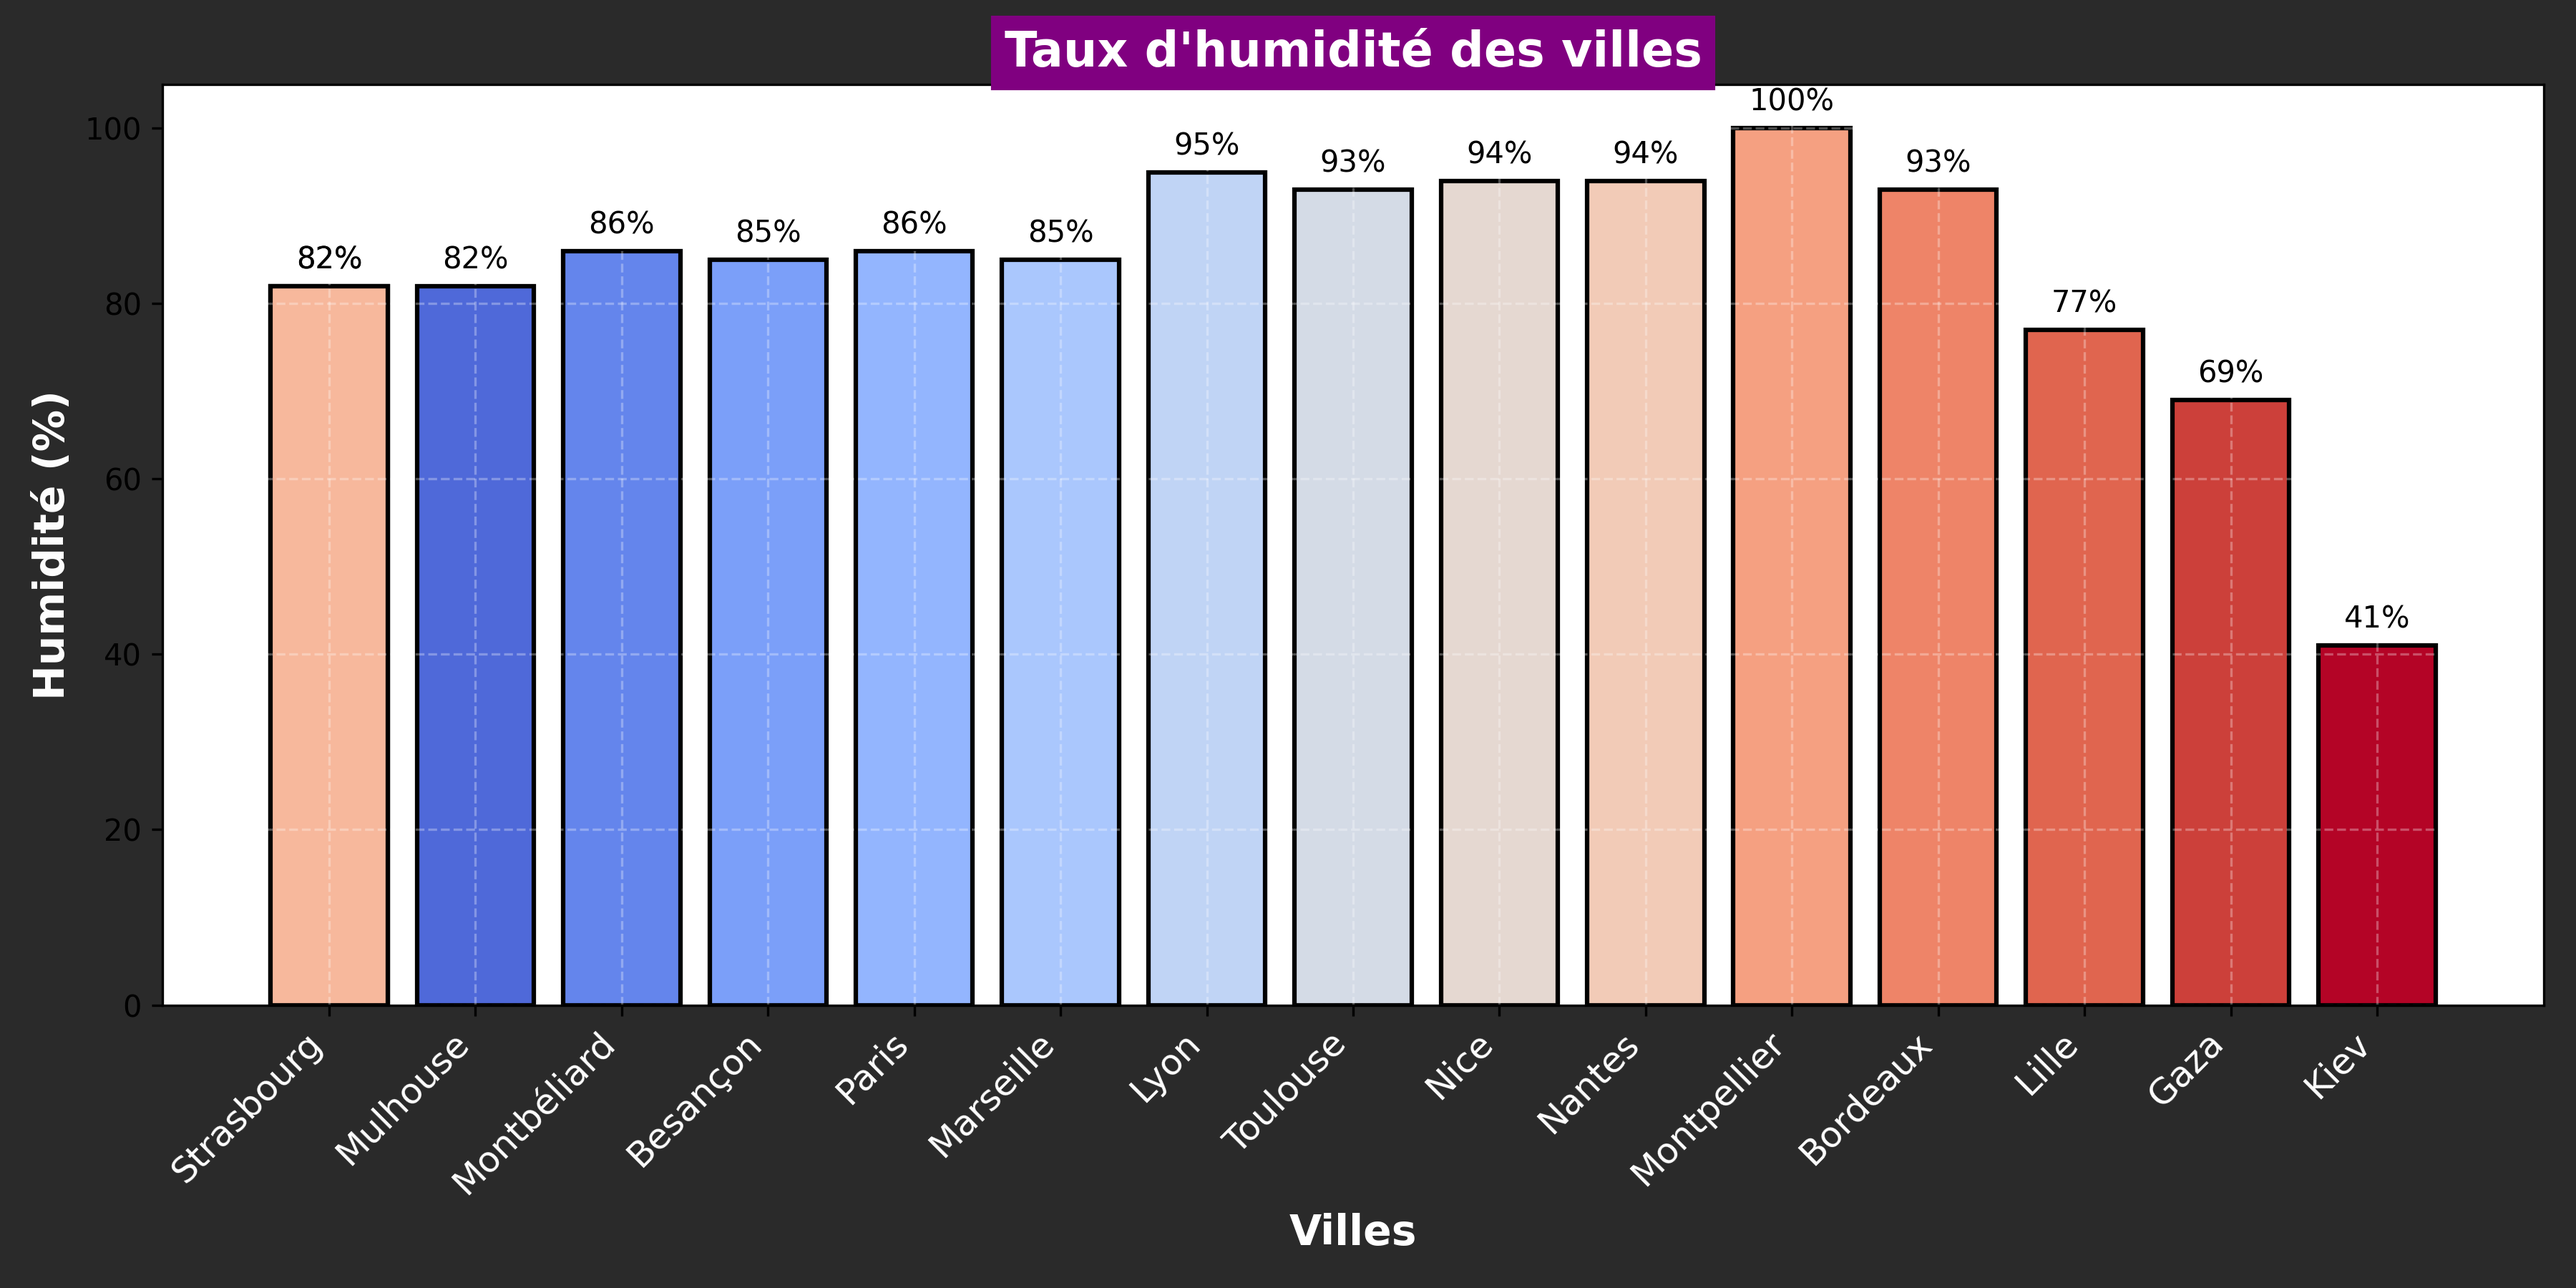
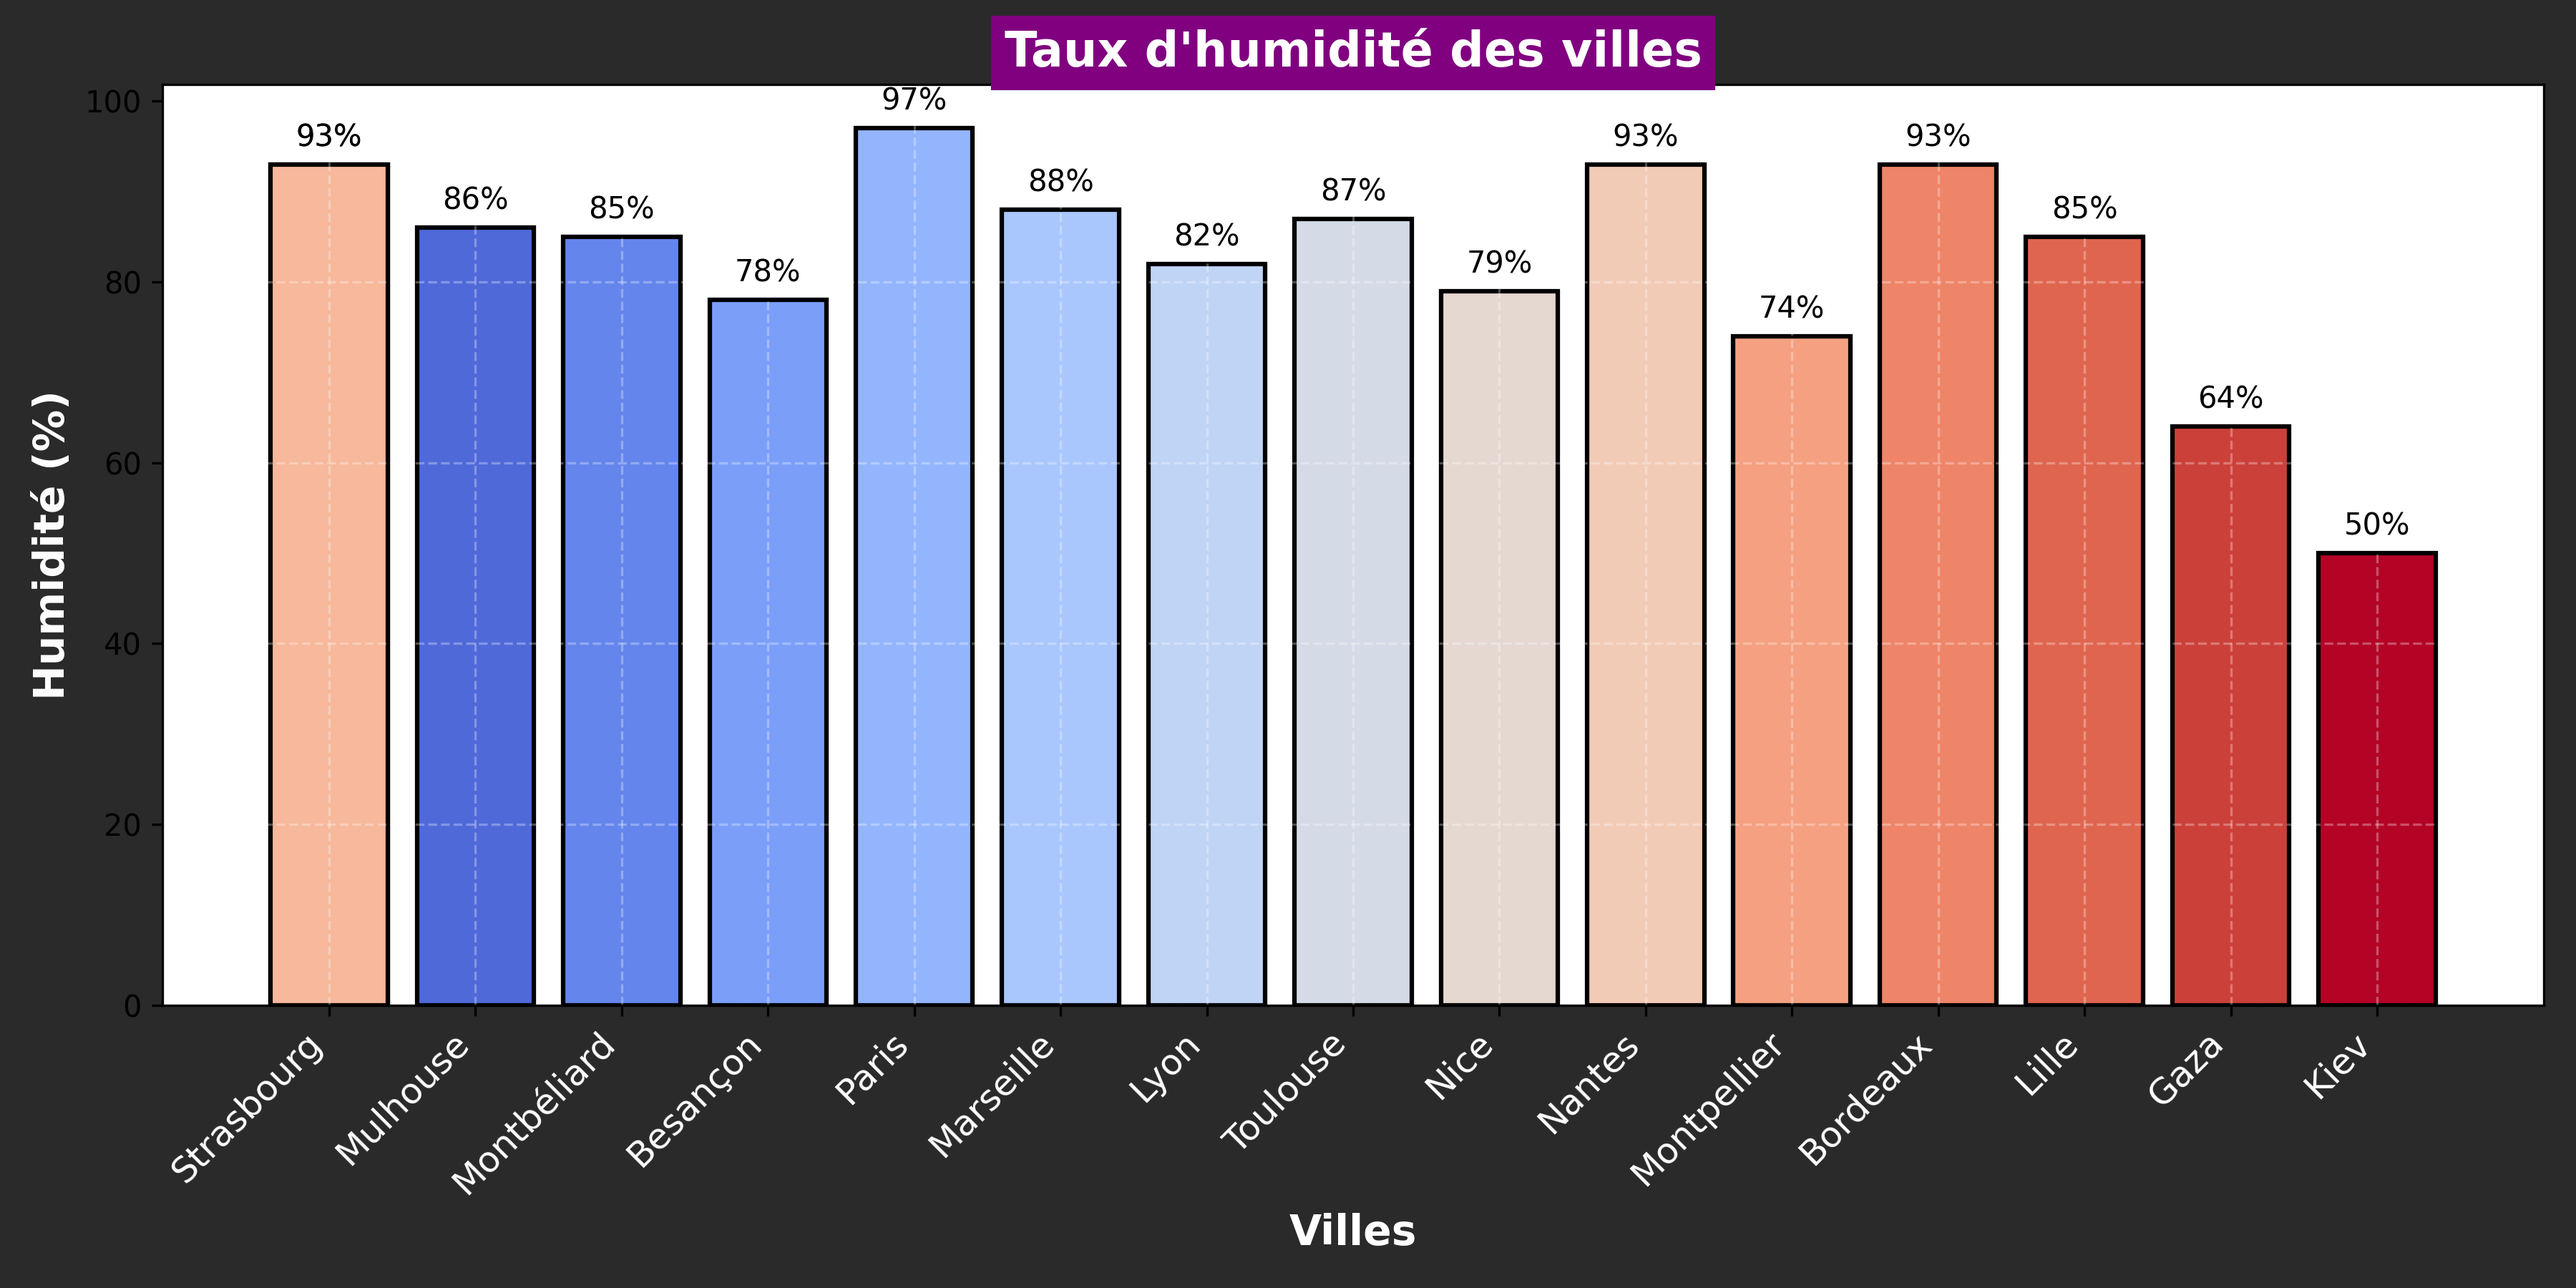
Mise à jour de la météo et ajout du graphique d'humidité

diff --git a/README.md b/README.md
@@ -24,102 +24,102 @@ Ce repo contient plusieurs workflows GitHub Actions :
 ## Météo actuelle :
 ## Météo des grandes villes + Gaza et Kiev 🌍
 
-🕒 Mise à jour : 20/04/2025 08:15:29
+🕒 Mise à jour : 21/04/2025 08:17:09
 
-### 🌍 Strasbourg ☀
-**Conditions :** ciel dégagé
-**Température :** 10.95°C
-**Humidité :** 82%
-**Vent :** 1.54 m/s
+### 🌍 Strasbourg 🌧
+**Conditions :** pluie modérée
+**Température :** 8.08°C
+**Humidité :** 93%
+**Vent :** 0 m/s
 
-### 🌍 Mulhouse 🌥
-**Conditions :** partiellement nuageux
-**Température :** 11.19°C
-**Humidité :** 82%
-**Vent :** 4.47 m/s
-
-### 🌍 Montbéliard 🌥
-**Conditions :** couvert
-**Température :** 11.1°C
+### 🌍 Mulhouse 🌧
+**Conditions :** pluie modérée
+**Température :** 9.2°C
 **Humidité :** 86%
-**Vent :** 4 m/s
+**Vent :** 4.63 m/s
+
+### 🌍 Montbéliard 🌧
+**Conditions :** légère pluie
+**Température :** 11.1°C
+**Humidité :** 85%
+**Vent :** 0.18 m/s
 
 ### 🌍 Besançon 🌥
 **Conditions :** couvert
-**Température :** 8.51°C
-**Humidité :** 85%
-**Vent :** 4.84 m/s
+**Température :** 9.63°C
+**Humidité :** 78%
+**Vent :** 4.06 m/s
 
-### 🌍 Paris 🌧
-**Conditions :** légère pluie
-**Température :** 11.06°C
-**Humidité :** 86%
-**Vent :** 6.17 m/s
+### 🌍 Paris 🌥
+**Conditions :** bruine légère
+**Température :** 9.89°C
+**Humidité :** 97%
+**Vent :** 1.03 m/s
 
 ### 🌍 Marseille 🌥
-**Conditions :** partiellement nuageux
-**Température :** 11.23°C
-**Humidité :** 85%
-**Vent :** 2.79 m/s
-
-### 🌍 Lyon 🌥
 **Conditions :** nuageux
-**Température :** 4.67°C
-**Humidité :** 95%
-**Vent :** 1.17 m/s
+**Température :** 8.62°C
+**Humidité :** 88%
+**Vent :** 1.5 m/s
+
+### 🌍 Lyon 🌧
+**Conditions :** pluie modérée
+**Température :** 8.45°C
+**Humidité :** 82%
+**Vent :** 0.45 m/s
 
 ### 🌍 Toulouse ☀
 **Conditions :** ciel dégagé
-**Température :** 4.99°C
-**Humidité :** 93%
-**Vent :** 1.03 m/s
+**Température :** 10.99°C
+**Humidité :** 87%
+**Vent :** 5.14 m/s
 
 ### 🌍 Nice 🌥
 **Conditions :** couvert
-**Température :** 3.8°C
-**Humidité :** 94%
-**Vent :** 1.31 m/s
+**Température :** 7.5°C
+**Humidité :** 79%
+**Vent :** 1.39 m/s
 
 ### 🌍 Nantes 🌥
-**Conditions :** bruine légère
-**Température :** 11.96°C
-**Humidité :** 94%
-**Vent :** 2.06 m/s
+**Conditions :** couvert
+**Température :** 10.96°C
+**Humidité :** 93%
+**Vent :** 3.09 m/s
 
-### 🌍 Strasbourg ☀
-**Conditions :** ciel dégagé
-**Température :** 10.95°C
-**Humidité :** 82%
-**Vent :** 1.54 m/s
+### 🌍 Strasbourg 🌧
+**Conditions :** pluie modérée
+**Température :** 8.08°C
+**Humidité :** 93%
+**Vent :** 0 m/s
 
 ### 🌍 Montpellier ☀
 **Conditions :** ciel dégagé
-**Température :** 5.71°C
-**Humidité :** 100%
+**Température :** 13.61°C
+**Humidité :** 74%
 **Vent :** 2.57 m/s
 
-### 🌍 Bordeaux 🌧
-**Conditions :** pluie modérée
+### 🌍 Bordeaux 🌥
+**Conditions :** nuageux
 **Température :** 10.15°C
 **Humidité :** 93%
-**Vent :** 6.17 m/s
+**Vent :** 3.09 m/s
 
-### 🌍 Lille 🌥
-**Conditions :** partiellement nuageux
-**Température :** 8°C
-**Humidité :** 77%
-**Vent :** 4.12 m/s
+### 🌍 Lille 🌫
+**Conditions :** brume
+**Température :** 7.58°C
+**Humidité :** 85%
+**Vent :** 1.54 m/s
 
 ### 🌍 Gaza ☀
 **Conditions :** ciel dégagé
-**Température :** 20.34°C
-**Humidité :** 69%
-**Vent :** 1.46 m/s
+**Température :** 18.95°C
+**Humidité :** 64%
+**Vent :** 1.01 m/s
 
 ### 🌍 Kiev ☀
 **Conditions :** ciel dégagé
 **Température :** 18.73°C
-**Humidité :** 41%
+**Humidité :** 50%
 **Vent :** 0.45 m/s
 
 <p align='center'><img src='https://raw.githubusercontent.com/khoa083/khoa/main/Khoa_ne/img/Rainbow.gif' width='100%' style='border-radius: 5px; border: 3px solid #39FF14; box-shadow: 0 0 10px #39FF14, 0 0 20px #39FF14;' /></p>
